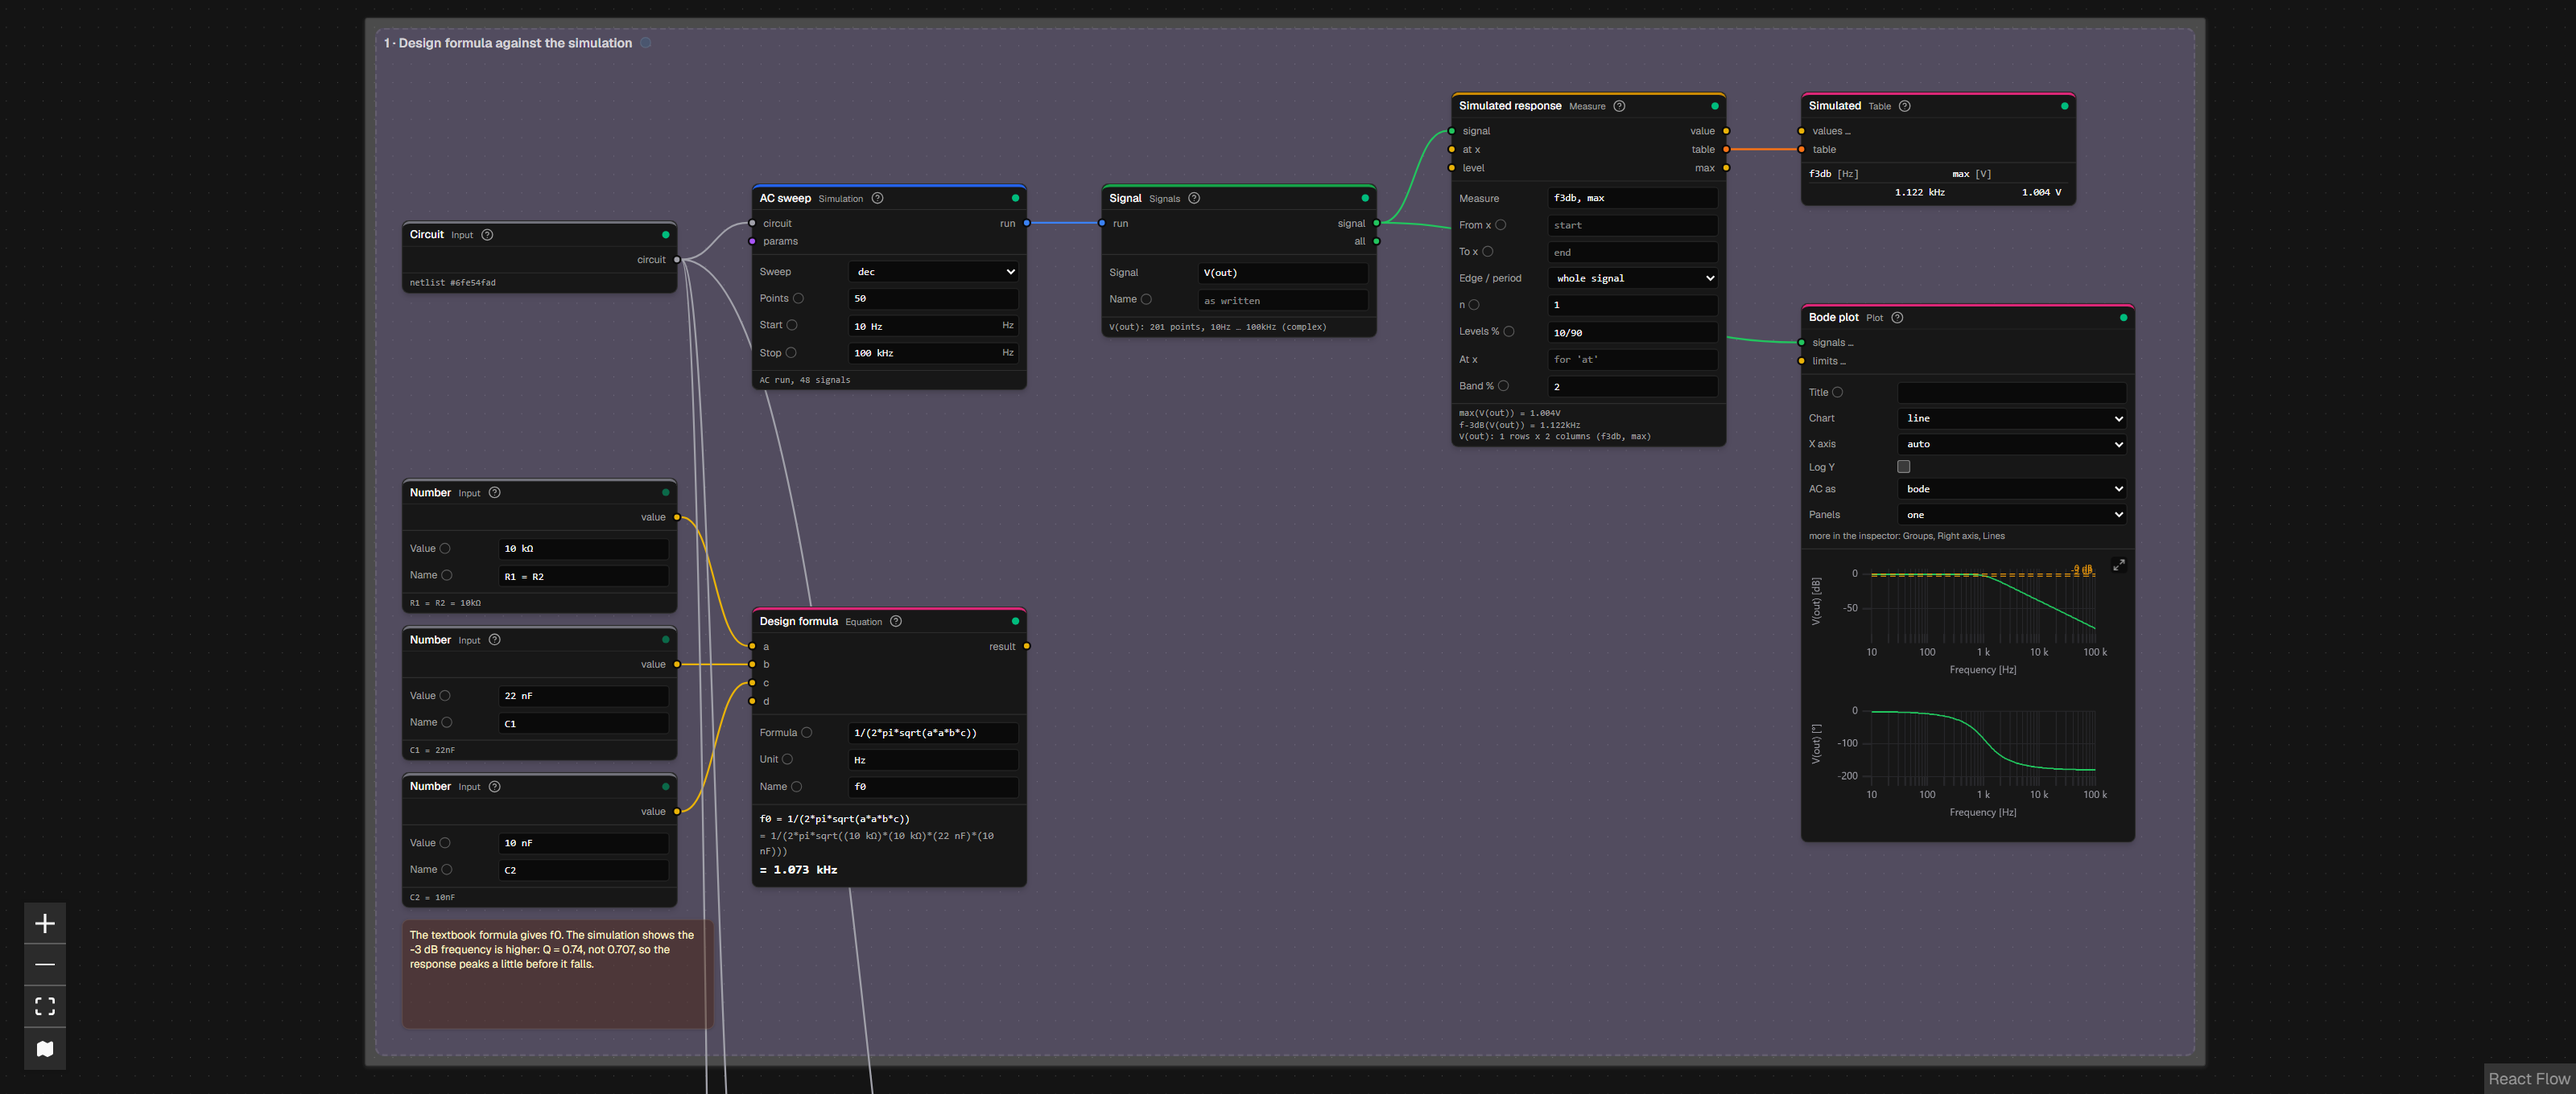
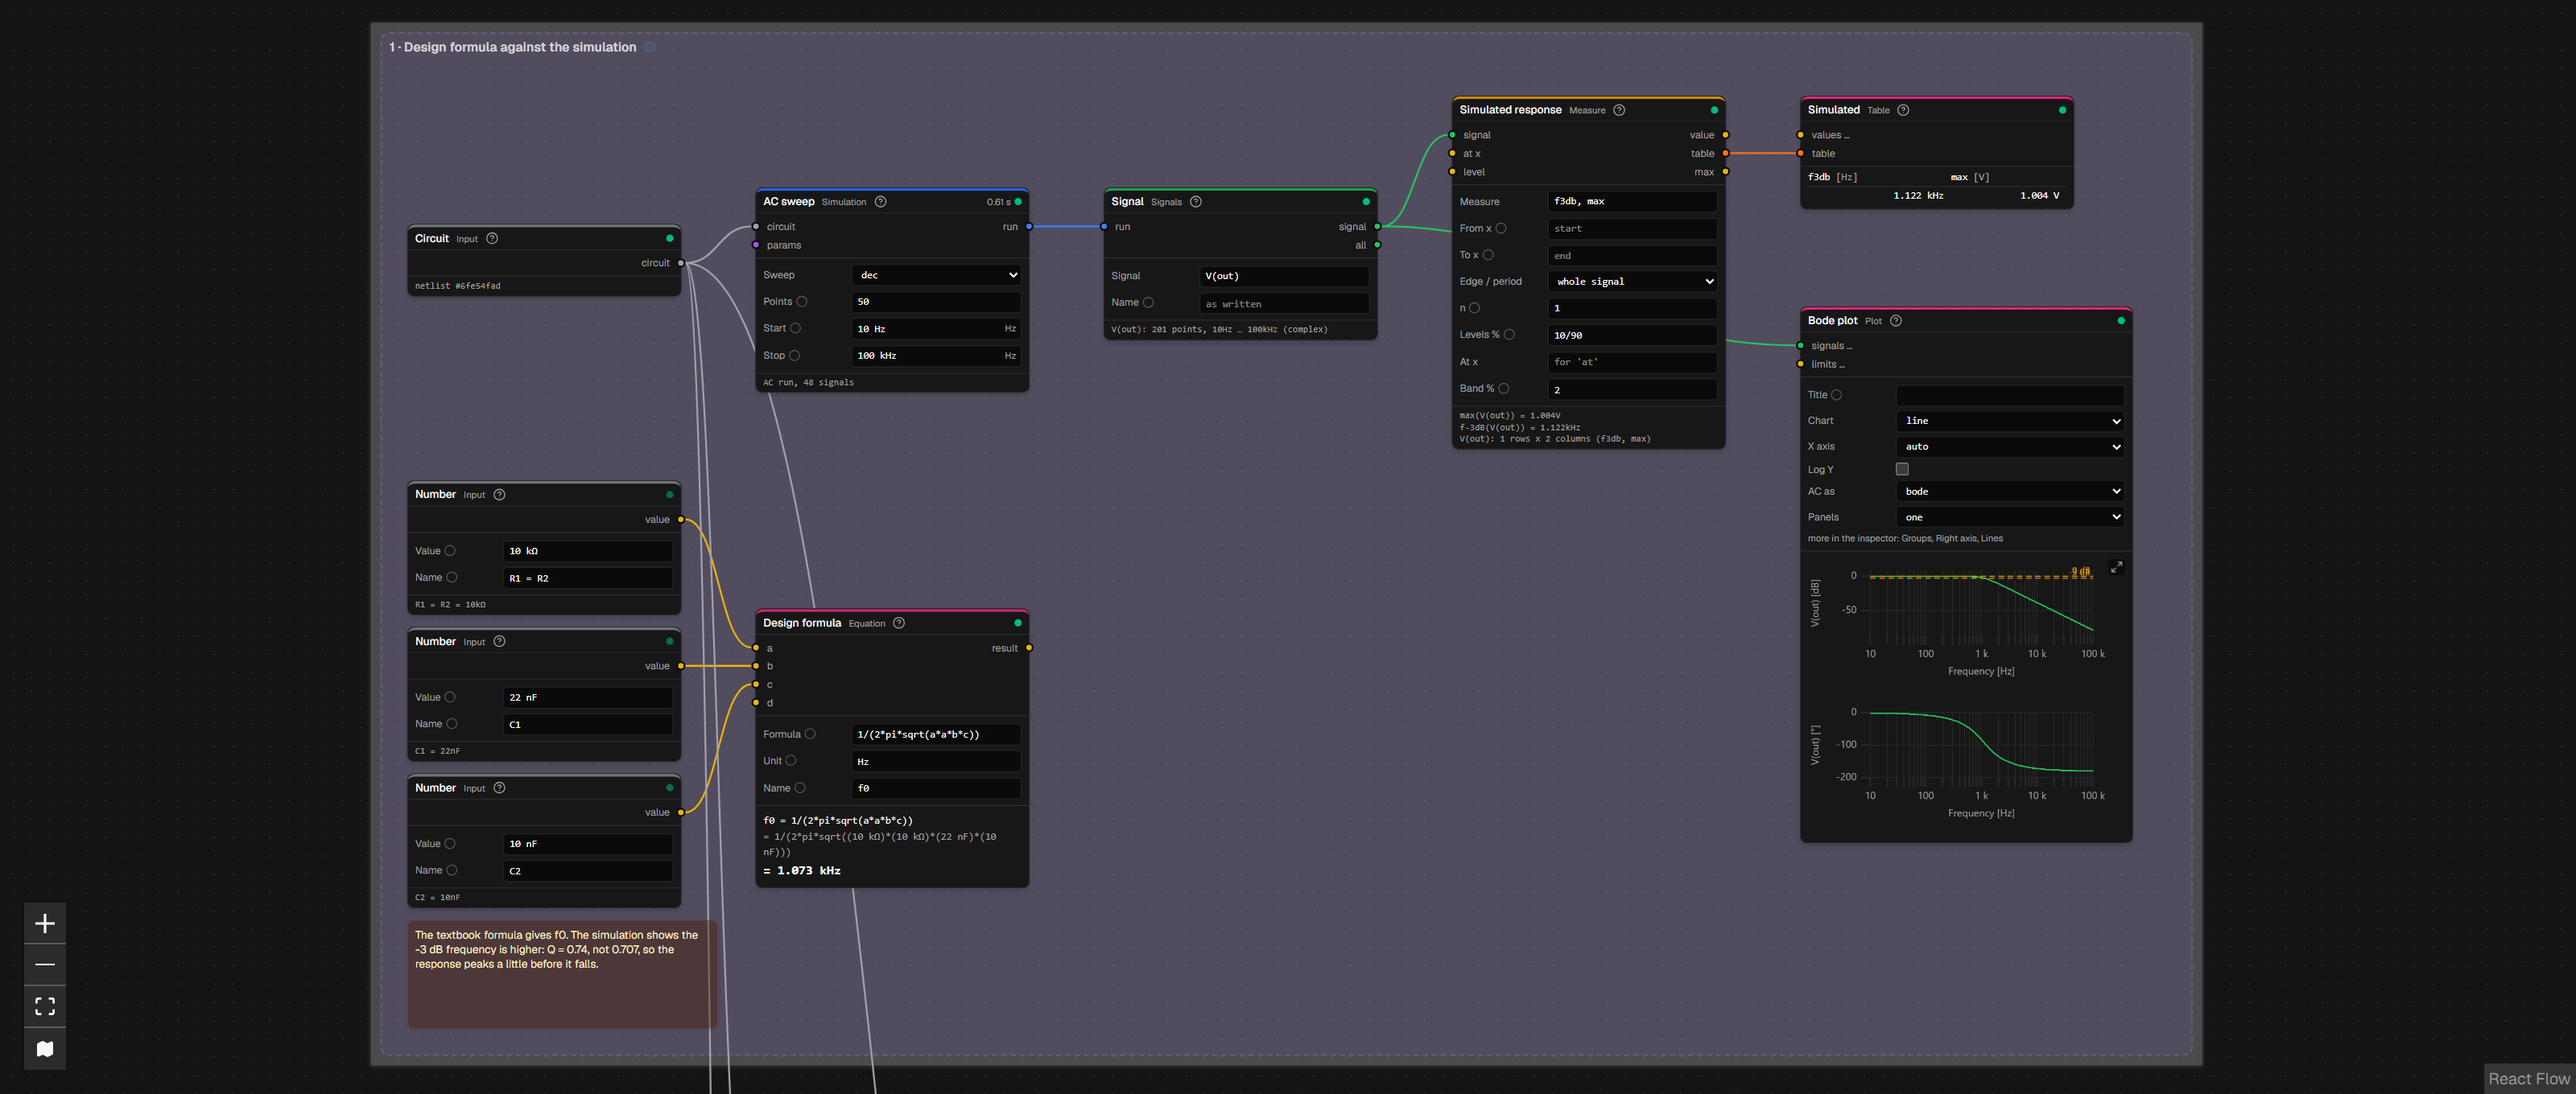
fix(plot): unwrapped phase in Bode plots, no false 360 degree jumps
The Simulate viewer and graph Plot nodes draw the phase unwrapped; the
README explains the real filter's phase going past -180 degrees.

diff --git a/apps/web/src/graph/PlotView.tsx b/apps/web/src/graph/PlotView.tsx
@@ -6,7 +6,7 @@ import type { PlotSeries } from '@/api/types'
 import { useTheme } from '@/lib/theme'
 import { formatValue } from '@/lib/units'
 import { crosshairPlugin } from '@/plot/crosshair'
-import { axisPrefix, axisTitle, tickLabels } from '@/plot/format'
+import { axisPrefix, axisTitle, phaseDegrees, tickLabels } from '@/plot/format'
 import { scaledMove, syncOnEnter } from '@/plot/scaled'
 import { xyPath } from '@/plot/xy'
 import { PALETTES, usePlot } from '@/store/plot'
@@ -39,8 +39,7 @@ const unitOfKey = (key: string) => key.replace(/\|r$/, '').replace(/^-$/, '')
 export function values(s: PlotSeries, complex: string): { y: (number | null)[]; unit: string } {
   if (s.re && s.im) {
     const im = s.im
-    if (complex === 'phase')
-      return { y: s.re.map((re, i) => (Math.atan2(im[i], re) * 180) / Math.PI), unit: '°' }
+    if (complex === 'phase') return { y: phaseDegrees(s.re, im), unit: '°' }
     const mag = s.re.map((re, i) => Math.hypot(re, im[i]))
     if (complex === 'mag') return { y: mag, unit: s.unit }
     return { y: mag.map((m) => 20 * Math.log10(Math.max(m, 1e-15))), unit: 'dB' }

diff --git a/apps/web/src/plot/format.ts b/apps/web/src/plot/format.ts
@@ -100,3 +100,22 @@ export function groupSignals(names: string[], scale: string | null | undefined):
   for (const group of groups) group.signals.sort(natural.compare)
   return groups.filter((g) => g.signals.length > 0)
 }
+
+/**
+ * Phase in degrees of complex samples, unwrapped: a curve going past -180° goes on to -190°
+ * instead of jumping to +170° (a wrapped Bode phase looks like a step that is not there).
+ */
+export function phaseDegrees(re: ArrayLike<number>, im: ArrayLike<number>): number[] {
+  const out: number[] = []
+  let offset = 0
+  for (let i = 0; i < re.length; i++) {
+    const wrapped = (Math.atan2(im[i], re[i]) * 180) / Math.PI
+    if (i > 0) {
+      const step = wrapped + offset - out[i - 1]
+      if (step > 180) offset -= 360 * Math.round(step / 360)
+      else if (step < -180) offset += 360 * Math.round(-step / 360)
+    }
+    out.push(wrapped + offset)
+  }
+  return out
+}

diff --git a/apps/web/src/panels/WaveformPanel.tsx b/apps/web/src/panels/WaveformPanel.tsx
@@ -50,7 +50,7 @@ import { revealSignal } from '@/lib/reveal'
 import { useTheme } from '@/lib/theme'
 import { formatValue, signalUnit } from '@/lib/units'
 import { OpTable } from '@/panels/OpTable'
-import { axisPrefix, axisTitle, scaleName, tickLabels } from '@/plot/format'
+import { axisPrefix, axisTitle, phaseDegrees, scaleName, tickLabels } from '@/plot/format'
 import { SignalPicker } from '@/plot/SignalPicker'
 import { plotsToSvg, SVG_THEMES, svgToPng } from '@/plot/svg'
 import { xyPath } from '@/plot/xy'
@@ -167,7 +167,7 @@ async function queryRun(
       const im = s.im
       ac.set(trace.id, [
         s.re.map((re, i) => 20 * Math.log10(Math.max(Math.hypot(re, im[i]), 1e-15))),
-        s.re.map((re, i) => (Math.atan2(im[i], re) * 180) / Math.PI),
+        phaseDegrees(s.re, im),
       ])
     } else if (s.max && s.min) {
       const raw = s.max.every((v, i) => v === s.min?.[i])

diff --git a/apps/web/src/plot/format.test.ts b/apps/web/src/plot/format.test.ts
@@ -1,5 +1,5 @@
 import { describe, expect, it } from 'vitest'
-import { axisPrefix, axisTitle, groupSignals, tickLabels } from './format'
+import { axisPrefix, axisTitle, groupSignals, phaseDegrees, tickLabels } from './format'
 
 describe('plot axes', () => {
   it('picks one SI prefix per axis', () => {
@@ -35,5 +35,14 @@ describe('signal browser', () => {
       { title: 'Unnamed nets', signals: ['V(N002)'] },
       { title: 'Internal nodes', signals: ['V(_c1_esr)'] },
     ])
+  })
+})
+
+describe('phase', () => {
+  it('is unwrapped: past -180 degrees it goes on instead of jumping to +180', () => {
+    const deg = [-170, -179, 175, 120, 45] // as atan2 gives them (wrapped)
+    const rad = deg.map((d) => (d * Math.PI) / 180)
+    const out = phaseDegrees(rad.map(Math.cos), rad.map(Math.sin))
+    expect(out.map((v) => Math.round(v))).toEqual([-170, -179, -185, -240, -315])
   })
 })

diff --git a/README.md b/README.md
@@ -125,6 +125,13 @@ For everyday work there is the classic LTspice-like workflow: choose an analysis
 
 The screenshot shows the same comparison: V(out) of the ideal filter in orange and V(out_real) of the real one in blue. The **-3 dB markers**, placed from the markers menu, land on **1.123 kHz** and **1.113 kHz**, and the bar under the plot shows their difference. The leak-through above 70 kHz is easy to see.
 
+The phase tells the same story:
+
+- **Ideal filter:** the phase approaches −180°, as a second-order low-pass should. It matches the analytic transfer function to within 2·10⁻⁶.
+- **Real filter:** the phase keeps falling past −180° and reaches about −315° at 1 MHz. Above the dip at 72 kHz the gain rises again while the phase keeps lagging. This is non-minimum-phase behaviour: the signal leaking through C1 reaches the output with the opposite sign to the filtered one.
+
+The viewer draws the phase unwrapped, so crossing −180° does not show up as a false jump to +180°.
+
 ![Simulate workspace](assets/screenshots/06-simulate-bode-markers.png)
 
 ### Why a graph?
